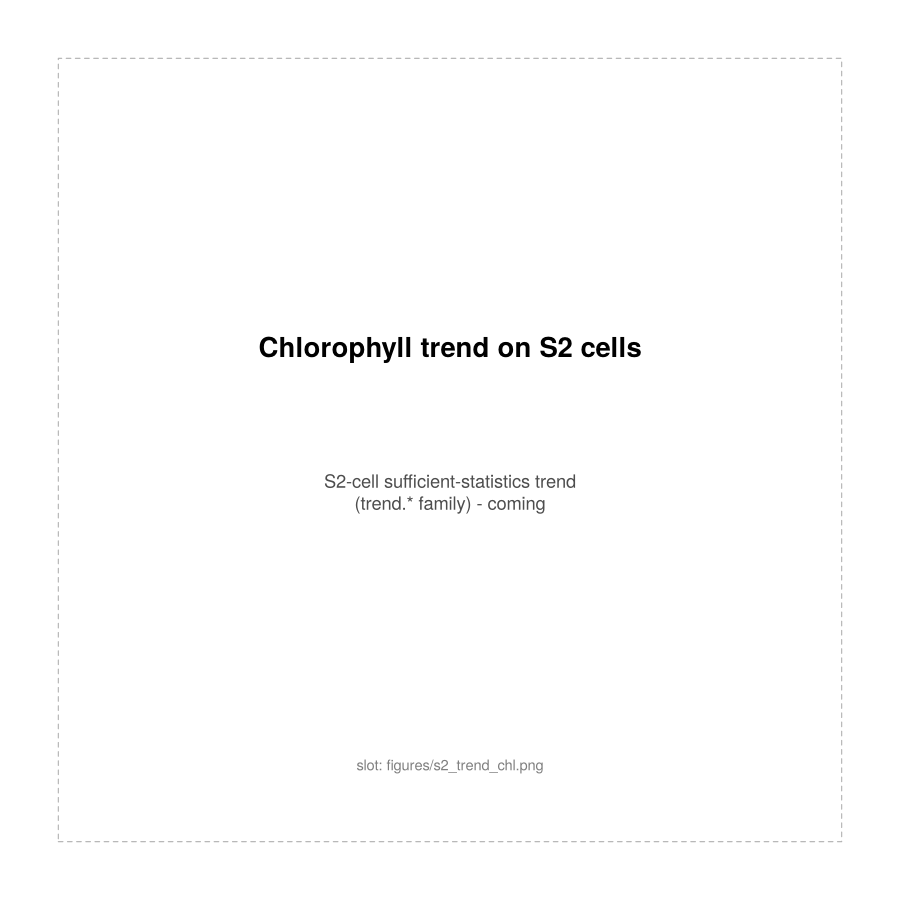
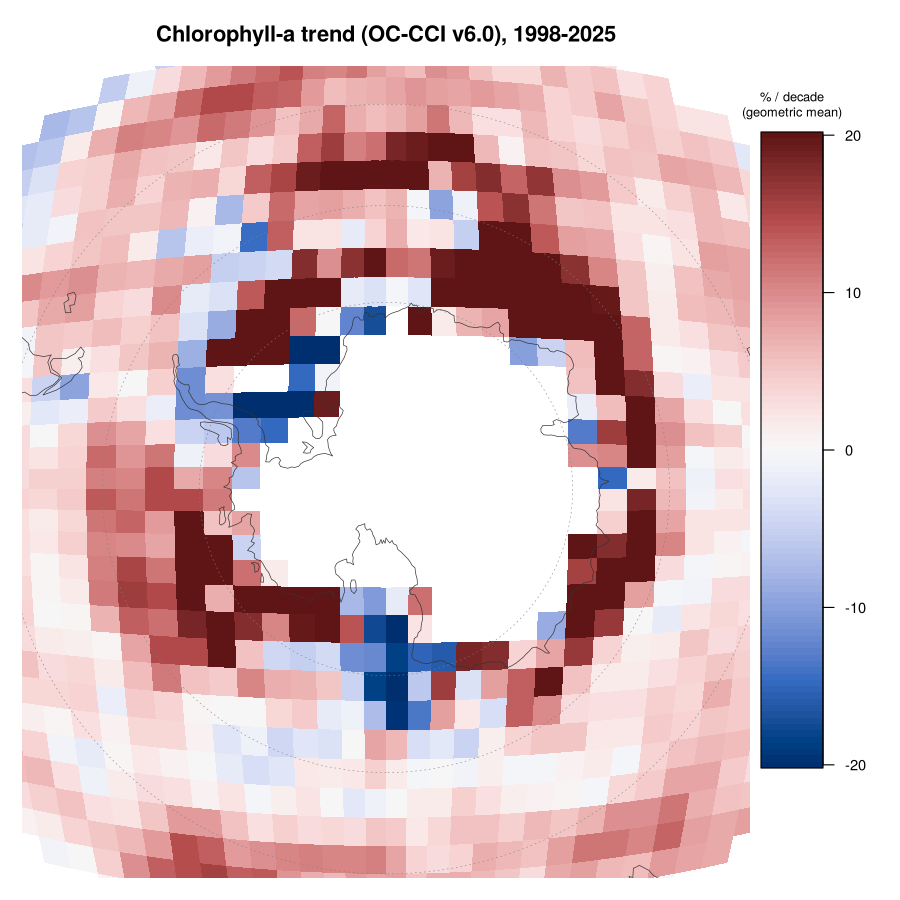
Fill S2 trend slots (sst, chl, sla) from trend.* cell exports
Claude-Session: https://claude.ai/code/session_01PpVmmkH5kz2Eg8zQcGbvTt

diff --git a/HANDOFF.md b/HANDOFF.md
@@ -8,6 +8,25 @@ Clones: Nectar `~/Git/trend.ice`; Gadi `~/trend.ice`.
 
 ---
 
+## 2026-11-14 (b) - S2 trend slots filled (sst, chl, sla)
+
+trend.sst, trend.chl and trend.sla are already deployed on Setonix (scrontab,
+sums on Acacia, Pages exports). `scripts/s2_trend_maps.R` draws their
+per-cell trends south of 40S from the committed `docs/data/cells-*.json`
+(sibling clones if present, else the Pages URLs) into
+`site/figures/s2_trend_{sst,chl,sla}.png`. Run from the repo root:
+
+    Rscript scripts/s2_trend_maps.R
+
+Caveat on the site: the chl ring in the seasonal ice zone is likely a
+sampling artefact of annual means (which months are visible has changed).
+
+Next: trend.ice as a grist deployment (sea ice concentration sums on S2
+cells, daily) to fill `s2_trend_ice.png` - needs a catalog of the daily
+ice fields readable from Setonix (CDR on Acacia, or the existing ASI index).
+
+---
+
 ## 2026-11-14 (a) - site live with real maps
 
 Pages enabled; site at https://mdsumner.github.io/trend.ice/ built from
